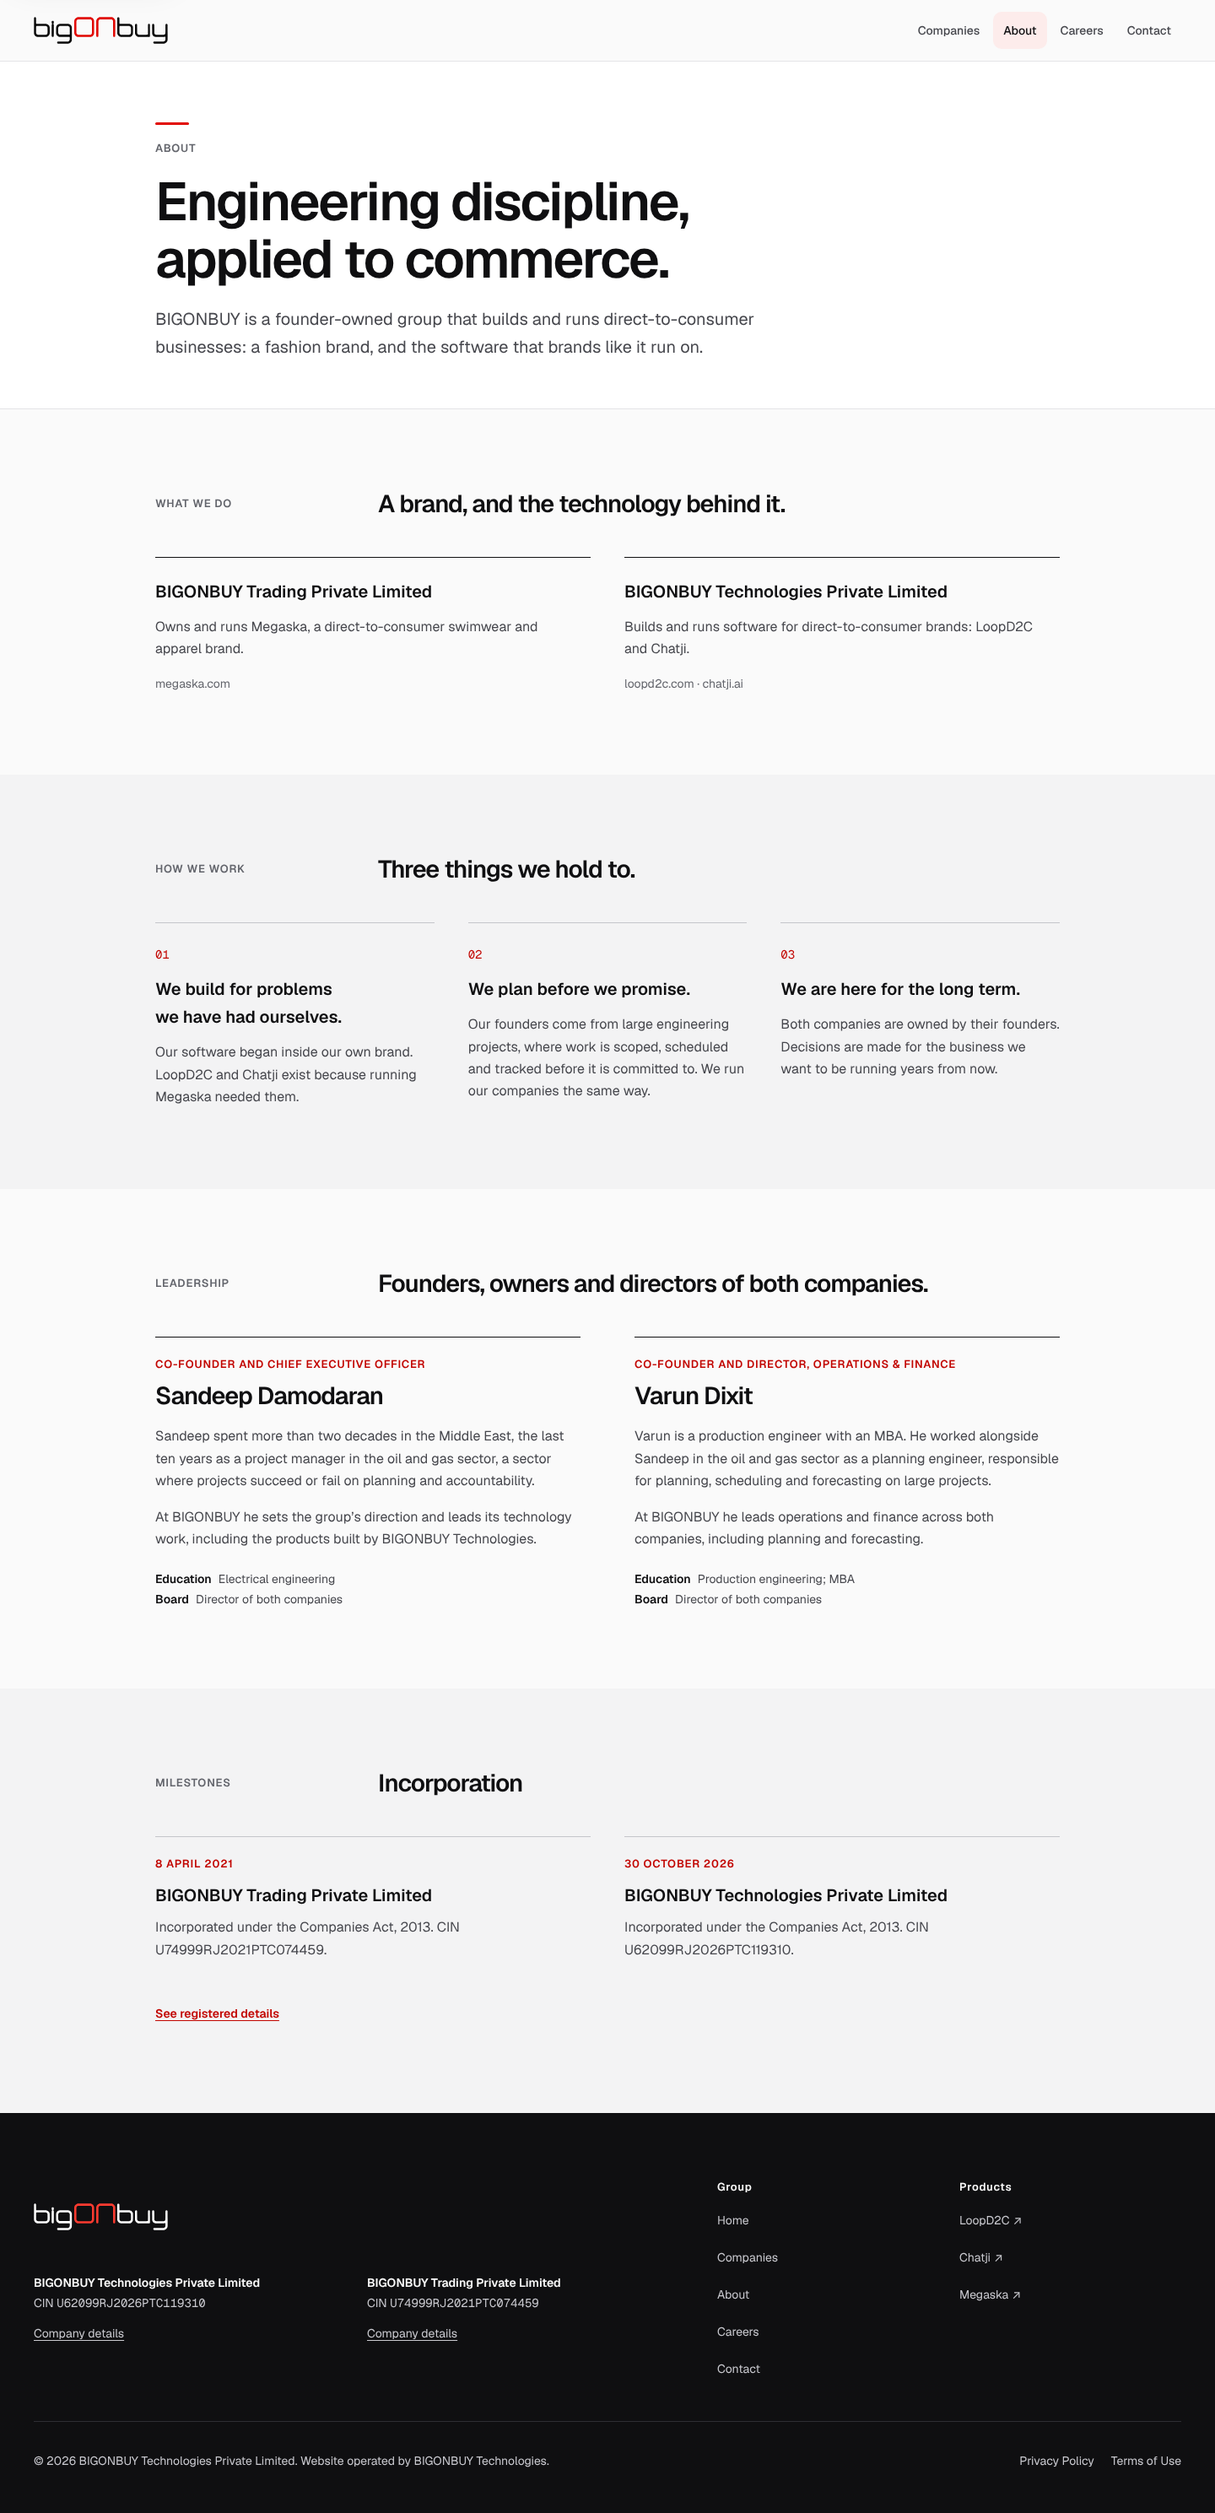
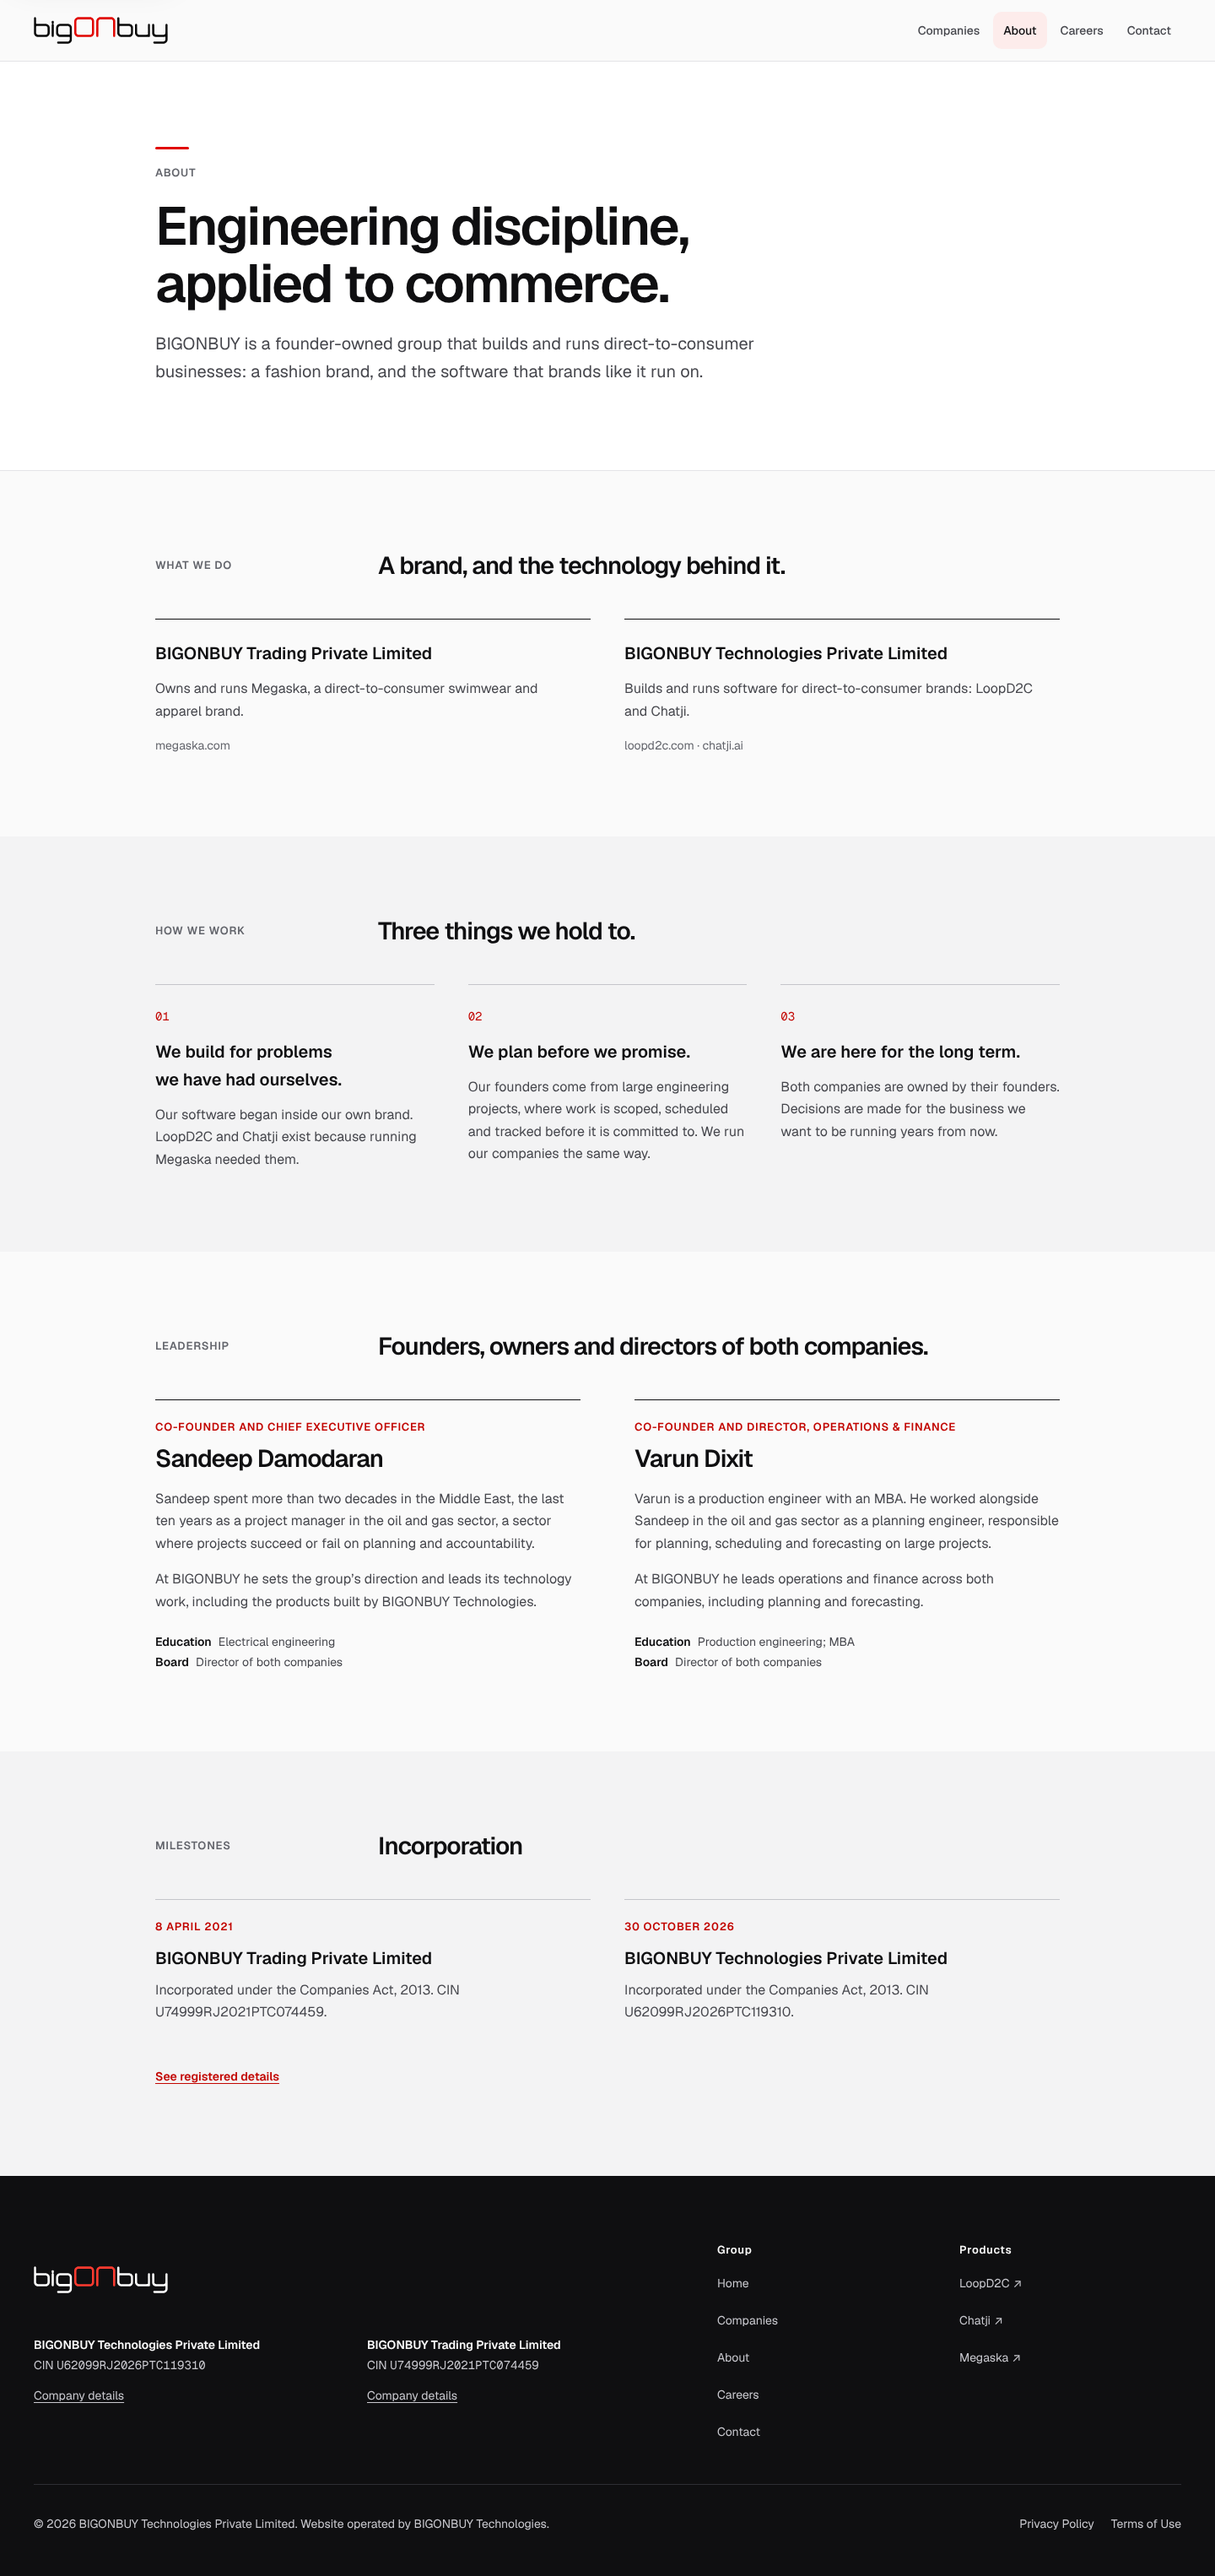
Even out page spacing and add a headshot slot to leadership
- Subpage heroes: symmetric padding, a step above body sections
  (56px mobile, about 100px desktop) instead of 40/56 and 72/56.
- Footer: more bottom room on phones, plus the iPhone home-indicator inset.
- Contact: last section uses standard spacing like the rest of the page.
- Leadership: optional photo per founder (null until supplied); fixed the
  global img reset so max-width utilities on images take effect.
- Removed the extra gap above "Read about the founders" on mobile.

Claude-Session: https://claude.ai/code/session_01Jvz5mRUoQkmn8kLwUTEMgb

diff --git a/src/app/globals.css b/src/app/globals.css
@@ -61,8 +61,9 @@
   --section-standard: clamp(3rem, 7vw, 6rem);
   --section-spacious: clamp(3rem, 7vw, 6.5rem);
   --section-editorial: clamp(5rem, 9.5vw, 8.5rem);
-  --section-hero-top: clamp(2.5rem, 5vw, 4.5rem);
-  --section-hero-bottom: clamp(2.5rem, 4vw, 3.5rem);
+  /* Subpage heroes: symmetric and a step above body sections, so each page opens with air. */
+  --section-hero-top: clamp(3.5rem, 7vw, 6.5rem);
+  --section-hero-bottom: clamp(3.5rem, 7vw, 6.5rem);
   /* The first section after a hero: the torn edge already separates them, so it needs less top. */
   --section-after-hero: clamp(3rem, 5vw, 4.5rem);
   /* Two adjacent sections on the same surface read as one band: the second one's top padding
@@ -72,7 +73,7 @@
      a dark closing band, and a short bottom under the legal bar. */
   --footer-top: clamp(3rem, 6vw, 5rem);
   --footer-top-joined: clamp(2.5rem, 4vw, 3.5rem);
-  --footer-bottom: clamp(1.5rem, 3vw, 2.5rem);
+  --footer-bottom: clamp(2rem, 3vw, 2.5rem);
 
   --radius-small: 0.375rem;
   --radius-medium: 0.625rem;
@@ -201,13 +202,16 @@ a {
   -webkit-tap-highlight-color: transparent;
 }
 
-img,
-picture,
-svg,
-video,
-canvas {
-  display: block;
-  max-width: 100%;
+/* In the base layer so sizing utilities (max-w-*, inline) on media win over this reset. */
+@layer base {
+  img,
+  picture,
+  svg,
+  video,
+  canvas {
+    display: block;
+    max-width: 100%;
+  }
 }
 
 @layer base {
@@ -292,7 +296,8 @@ canvas {
    a hairline divides them instead of a second full padding. */
 .site-footer-inner {
   padding-top: var(--footer-top);
-  padding-bottom: var(--footer-bottom);
+  /* Keep the legal bar clear of the iPhone home indicator. */
+  padding-bottom: calc(var(--footer-bottom) + env(safe-area-inset-bottom));
 }
 
 body:has(main [data-closing][data-theme="inverse"]) .site-footer-inner {

diff --git a/src/config/site.ts b/src/config/site.ts
@@ -60,6 +60,11 @@ export interface Person {
   /** Statutory position on each company's board (as filed with MCA). */
   readonly boardRole: string;
   readonly education: string;
+  /**
+   * Headshot in public/people/ (portrait, at least 800x1000, same background and light for both).
+   * null until supplied; the profile renders without a photo.
+   */
+  readonly photo: string | null;
   /** Professional bio paragraphs. Facts supplied by the founders only. */
   readonly bio: readonly string[];
 }
@@ -176,6 +181,7 @@ export const siteConfig = {
       shortTitle: "CEO",
       boardRole: "Director",
       education: "Electrical engineering",
+      photo: null,
       bio: [
         "Sandeep spent more than two decades in the Middle East, the last ten years as a project manager in the oil and gas sector, a sector where projects succeed or fail on planning and accountability.",
         "At BIGONBUY he sets the group’s direction and leads its technology work, including the products built by BIGONBUY Technologies.",
@@ -187,6 +193,7 @@ export const siteConfig = {
       shortTitle: "Director, Operations & Finance",
       boardRole: "Director",
       education: "Production engineering; MBA",
+      photo: null,
       bio: [
         "Varun is a production engineer with an MBA. He worked alongside Sandeep in the oil and gas sector as a planning engineer, responsible for planning, scheduling and forecasting on large projects.",
         "At BIGONBUY he leads operations and finance across both companies, including planning and forecasting.",

diff --git a/src/components/people/leadership.tsx b/src/components/people/leadership.tsx
@@ -1,3 +1,4 @@
+import Image from "next/image";
 import { Text } from "@/components/foundation";
 import { siteConfig } from "@/config/site";
 
@@ -6,7 +7,17 @@ export function Leadership({ compact = false, headingLevel = "h3" }: Readonly<{ 
   return (
     <ul className={`grid list-none gap-0 p-0 md:grid-cols-2 ${compact ? "md:gap-10" : "md:gap-16"}`}>
       {siteConfig.founders.map((person) => (
-        <li key={person.name} className="border-t border-[var(--color-foreground)] pt-6 pb-10 md:pb-0">
+        <li key={person.name} className="border-t border-[var(--color-foreground)] pt-6 pb-10 last:pb-0 md:pb-0">
+          {person.photo ? (
+            <Image
+              src={person.photo}
+              alt={`${person.name}, ${person.shortTitle}`}
+              width={800}
+              height={1000}
+              sizes={compact ? "(min-width: 768px) 12rem, 10rem" : "(min-width: 768px) 18rem, 70vw"}
+              className={`mb-6 aspect-[4/5] w-full rounded-[var(--radius-medium)] bg-[var(--color-canvas-subtle)] object-cover grayscale-[15%] ${compact ? "max-w-[10rem] md:max-w-[12rem]" : "max-w-[18rem]"}`}
+            />
+          ) : null}
           <Text role="label" className="uppercase text-[var(--color-brand)]">{person.title}</Text>
           <Text as={headingLevel} role="h3" className="mt-3">{person.name}</Text>
           {compact ? null : (

diff --git a/src/app/contact/page.tsx b/src/app/contact/page.tsx
@@ -65,7 +65,7 @@ export default function ContactPage() {
         </Container>
       </Section>
 
-      <Section spacing="compact" aria-labelledby="registered-heading">
+      <Section spacing="standard" aria-labelledby="registered-heading">
         <Container width="standard">
           <Text as="h2" role="h3" id="registered-heading">Registered offices</Text>
           <ul className="mt-4 grid list-none gap-4 p-0 text-sm sm:grid-cols-2">
